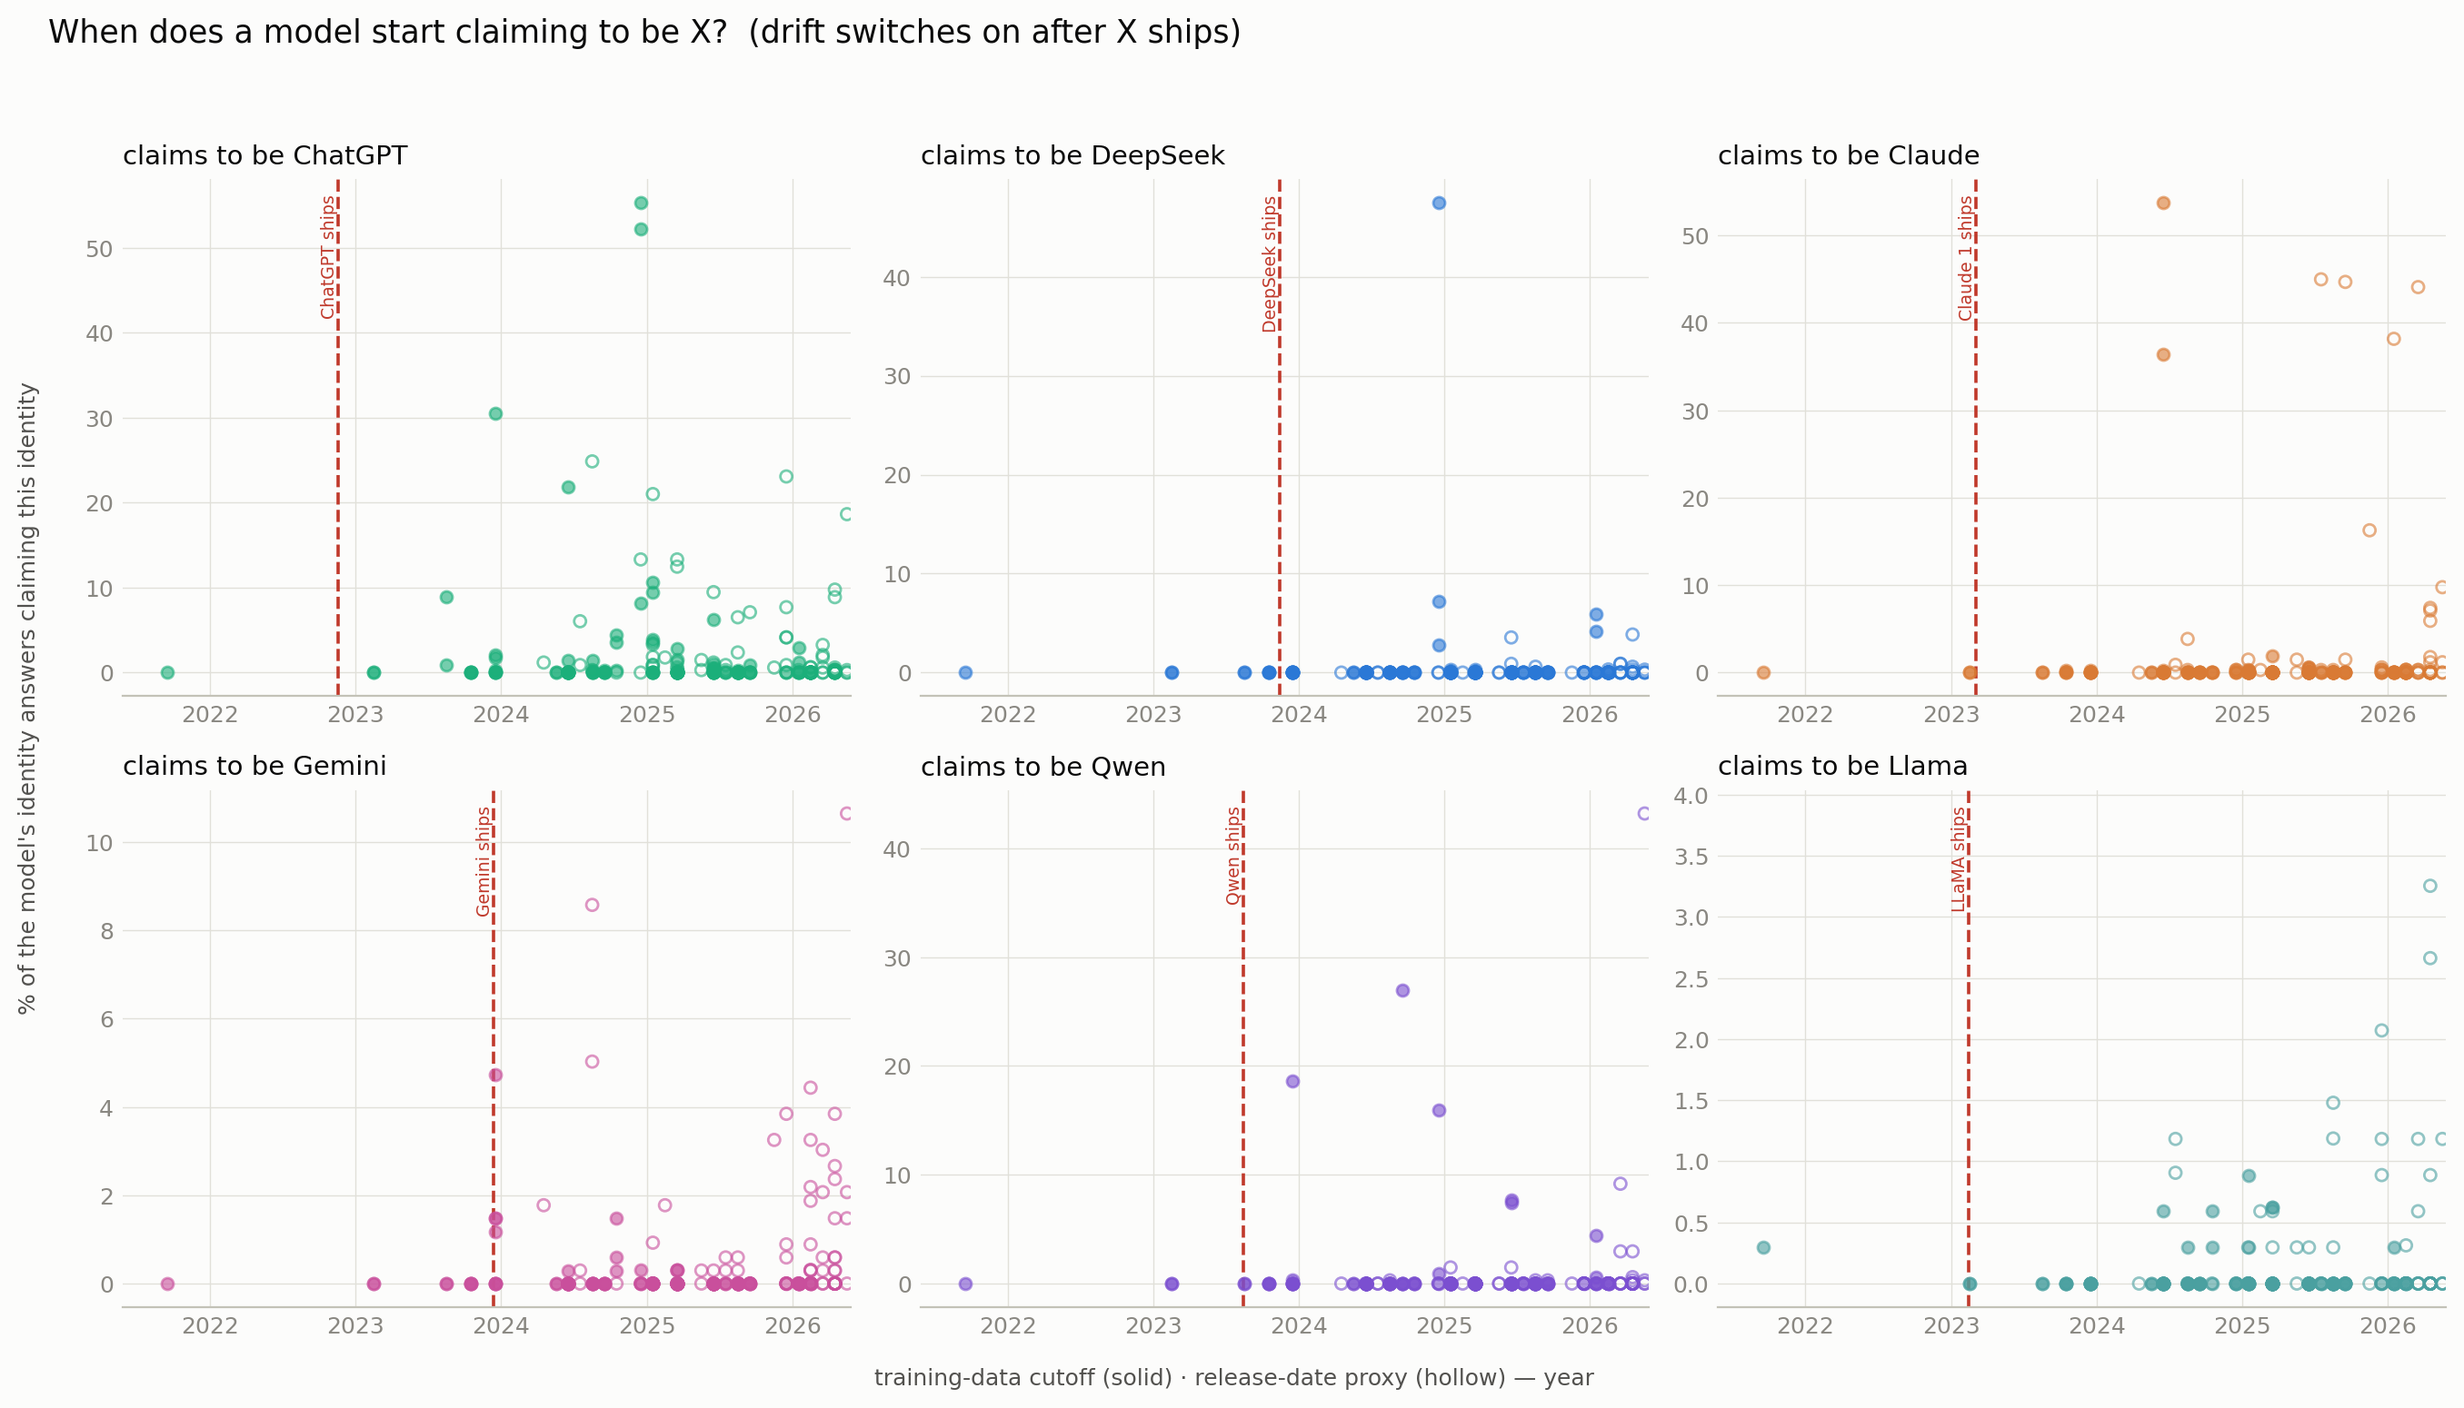
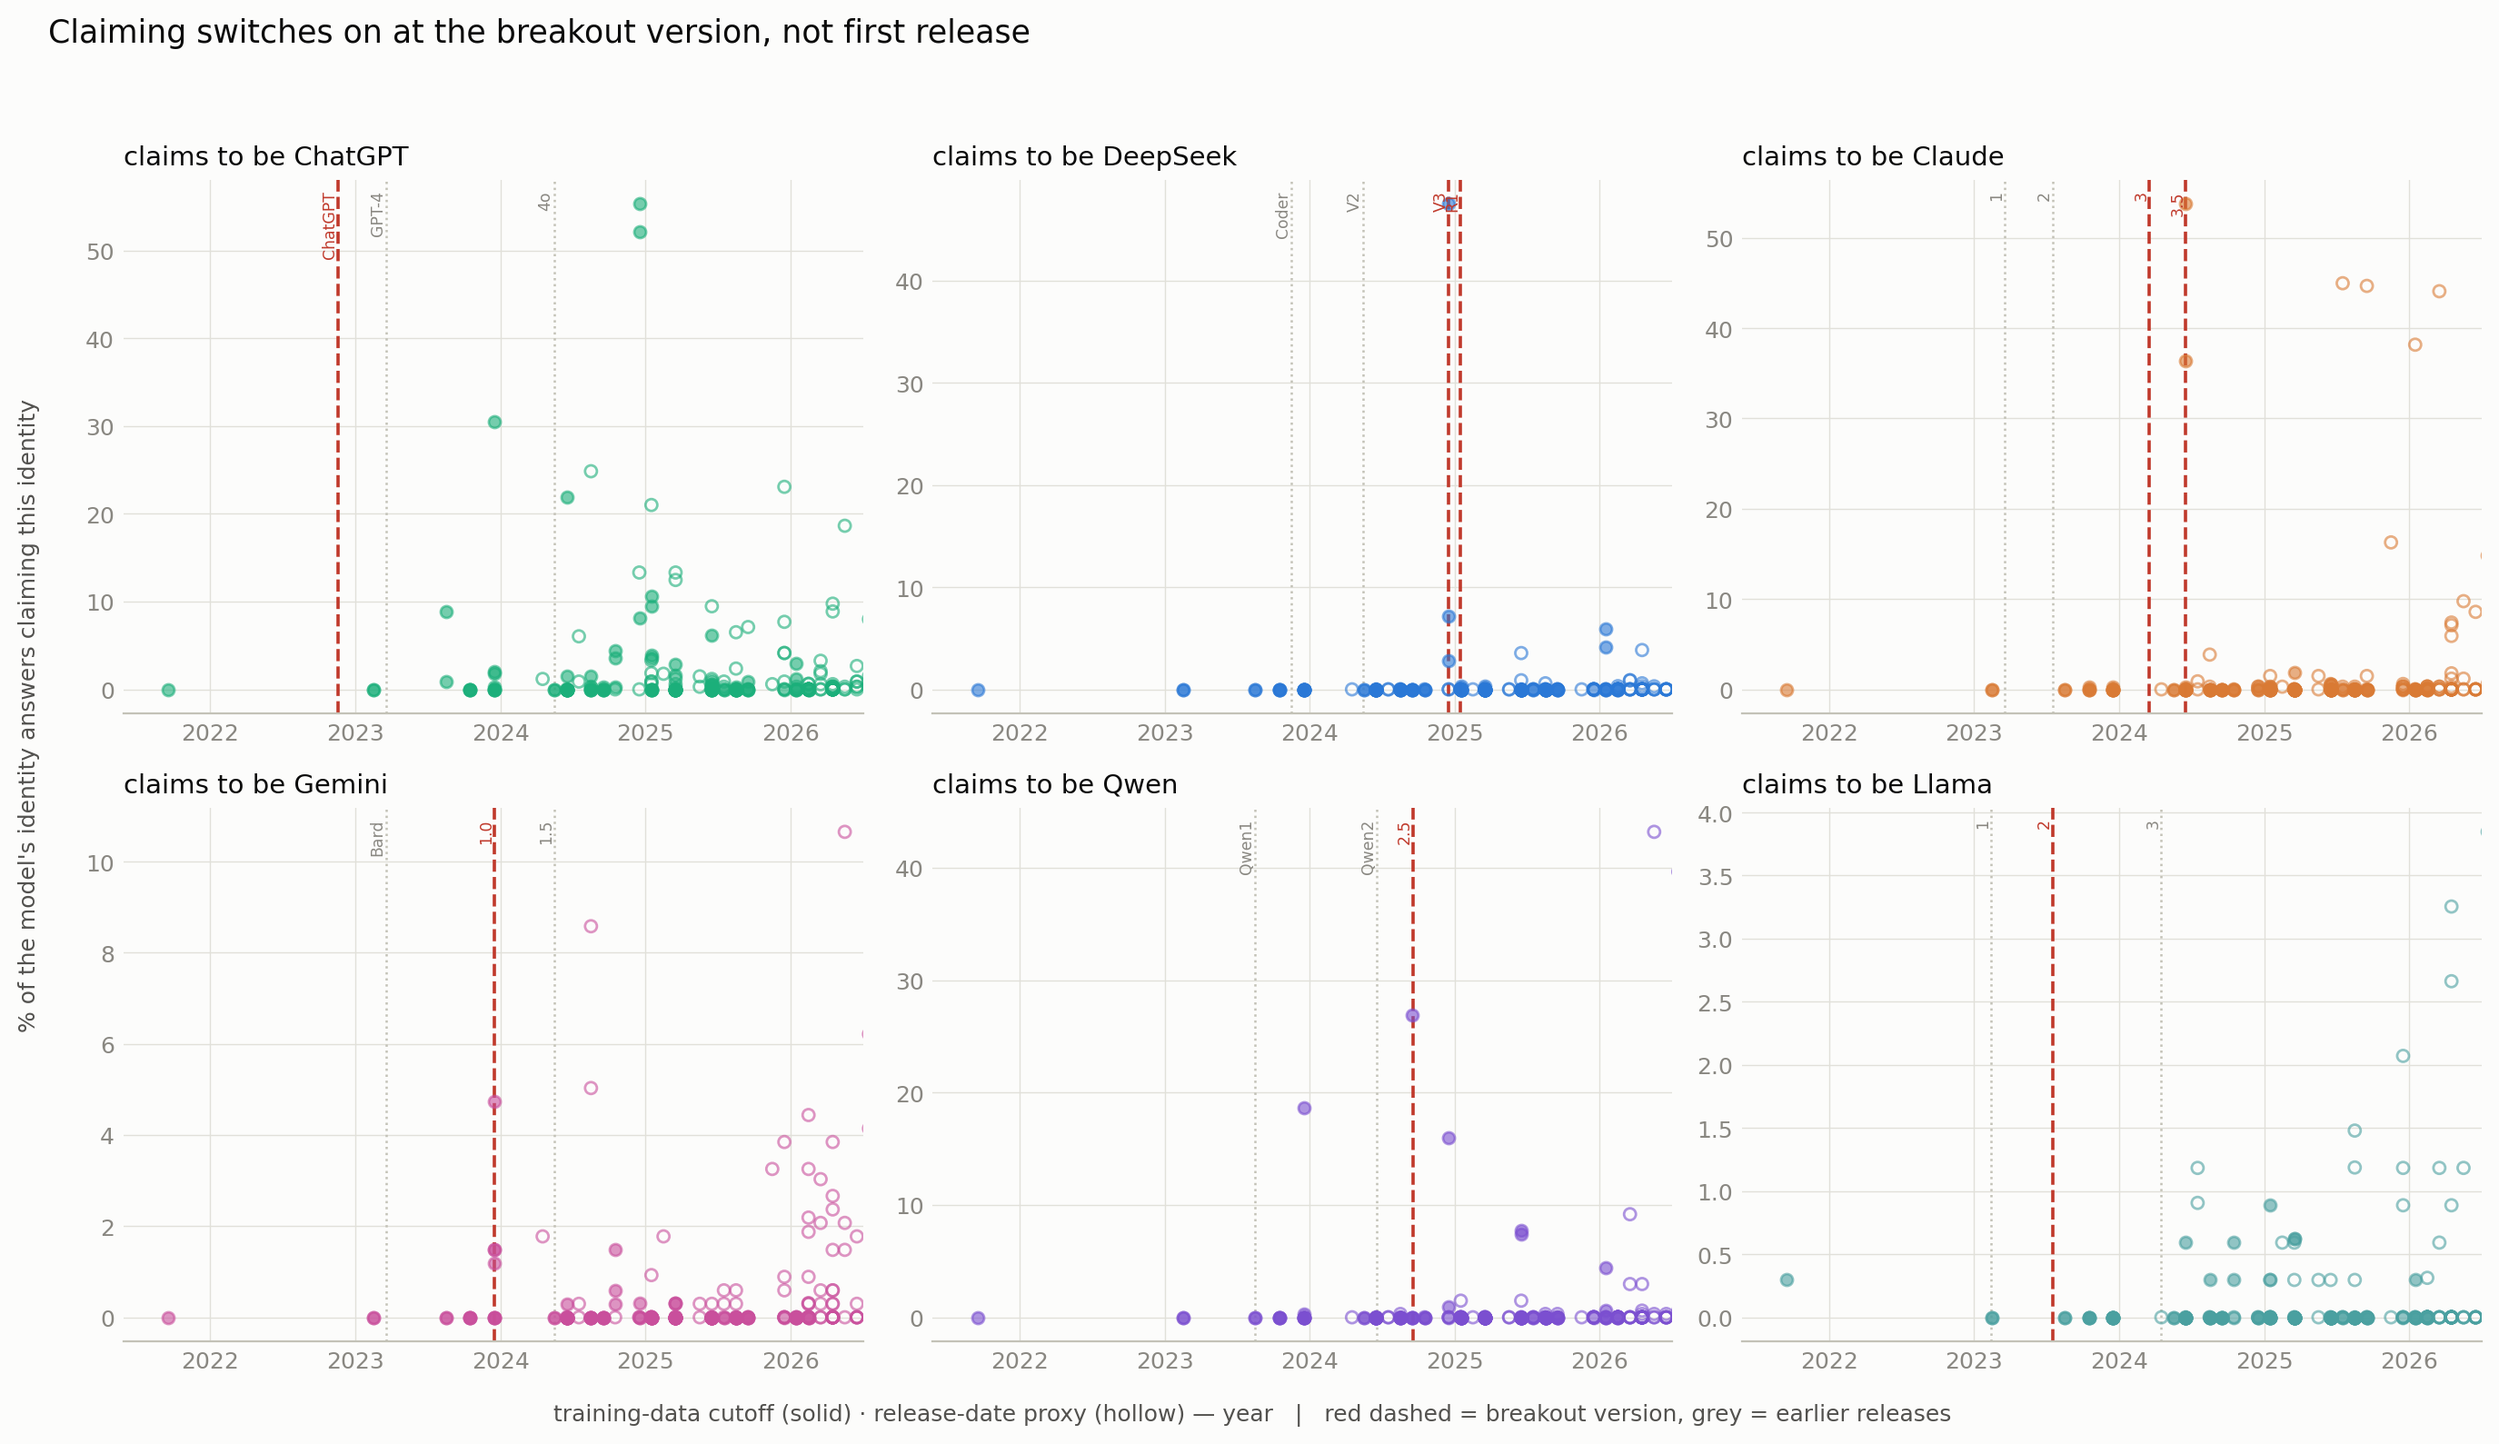
Mark version releases in cutoff grid — onset tracks breakout, not first release
Per your check: claiming switches on at the brand's breakout version, not its
obscure first release. DeepSeek's earliest claimer has a Dec-2024 cutoff = V3;
nothing claims DeepSeek in the ~13 months between DeepSeek-Coder (Nov 2023) and
V3 despite the name existing. Claude's substantial claimers (Qwen2.5-72B at 54%)
appear at 3/3.5 (mid-2024), not Claude 1 (2023). Grey dotted = earlier versions,
red dashed = breakout, in each panel.

Claude-Session: https://claude.ai/code/session_01Anj4JvuNgPGS3kunnJgPkZ

diff --git a/sweep/explain.py b/sweep/explain.py
@@ -209,19 +209,25 @@ def _year(s):
         return None
 
 
-# first public release of each brand — the earliest a model could absorb that
-# identity from its outputs in training data (the natural-experiment boundary)
-REL = {"chatgpt": 2022.88, "deepseek": 2023.87, "claude": 2023.17,
-       "gemini": 2023.95, "qwen": 2023.62, "llama": 2023.12}
-REL_LABEL = {"chatgpt": "ChatGPT", "deepseek": "DeepSeek", "claude": "Claude 1",
-             "gemini": "Gemini", "qwen": "Qwen", "llama": "LLaMA"}
+# major version releases per claimed brand (year). breakout=True marks the version
+# whose outputs actually flooded training data — where claiming it turns on — vs the
+# obscure first release that merely made the name exist.
+VERSIONS = {
+    "chatgpt": [(2022.88, "ChatGPT", True), (2023.21, "GPT-4", False), (2024.37, "4o", False)],
+    "deepseek": [(2023.87, "Coder", False), (2024.37, "V2", False), (2024.96, "V3", True), (2025.04, "R1", True)],
+    "claude": [(2023.21, "1", False), (2023.54, "2", False), (2024.21, "3", True), (2024.46, "3.5", True)],
+    "gemini": [(2023.21, "Bard", False), (2023.96, "1.0", True), (2024.37, "1.5", False)],
+    "qwen": [(2023.62, "Qwen1", False), (2024.46, "Qwen2", False), (2024.71, "2.5", True)],
+    "llama": [(2023.12, "1", False), (2023.54, "2", True), (2024.29, "3", False)],
+}
 
 
 def fig_cutoff(data):
-    """Per identity: does a model start claiming to BE X only after X first shipped?
-    x = training-data cutoff (solid) or, when a lab publishes none, release date as a
-    proxy (hollow). Vertical line = X's first public release. y = how much of the
-    model's identity answers claim X."""
+    """Per identity: does a model start claiming to BE X only after X's outputs
+    flooded training data? x = training-data cutoff (solid) or release-date proxy
+    (hollow). Grey ticks = version releases; red dashed = the breakout version.
+    y = how much of the model's identity answers claim X. The onset tracks the
+    breakout (DeepSeek V3, Claude 3.5), not the obscure first release."""
     cut = _load("model_cutoffs.json")
     if not cut:
         print("  (no model_cutoffs.json yet — skipping fig_cutoff)")
@@ -234,25 +240,27 @@ def fig_cutoff(data):
         if x is None or d["tot"] < MIN_TOT:
             continue
         rows.append((d, x, yc is not None))
-    ids = list(REL)
-    fig, axes = plt.subplots(2, 3, figsize=(13.6, 7.8))
-    for ax, ident in zip(axes.flat, ids):
+    fig, axes = plt.subplots(2, 3, figsize=(13.8, 8.0))
+    for ax, ident in zip(axes.flat, VERSIONS):
         col = IDCOLOR.get(ident, "#2a78d6")
         for d, x, doc in rows:
             y = 100 * d["claims"].get(ident, 0) / d["tot"]
             ax.scatter(x, y, s=22, facecolor=col if doc else "none",
                        edgecolor=col, alpha=0.6, lw=1, zorder=3)
-        ax.axvline(REL[ident], color="#c0392b", lw=1.3, ls="--", zorder=2)
-        ax.text(REL[ident], 0.97, f" {REL_LABEL[ident]} ships", fontsize=6.8, color="#c0392b",
-                rotation=90, va="top", ha="right", transform=ax.get_xaxis_transform())
+        for vx, vlab, breakout in VERSIONS[ident]:
+            ax.axvline(vx, color="#c0392b" if breakout else BASE,
+                       lw=1.3 if breakout else 0.9, ls="--" if breakout else ":", zorder=2)
+            ax.text(vx, 0.98, vlab, fontsize=6.2, color="#c0392b" if breakout else MUTED,
+                    rotation=90, va="top", ha="right", transform=ax.get_xaxis_transform())
         ax.set_title(f"claims to be {brand(ident)}", fontsize=10.5, color=INK, loc="left")
-        ax.set_xlim(2021.4, 2026.4)
+        ax.set_xlim(2021.4, 2026.5)
         style(ax); ax.grid(color=GRID, lw=0.5, zorder=0)
-    fig.text(0.5, 0.015, "training-data cutoff (solid) · release-date proxy (hollow) — year",
+    fig.text(0.5, 0.015, "training-data cutoff (solid) · release-date proxy (hollow) — year   "
+             "|   red dashed = breakout version, grey = earlier releases",
              ha="center", fontsize=9, color=INK2)
     fig.text(0.008, 0.5, "% of the model's identity answers claiming this identity",
              va="center", rotation=90, fontsize=9, color=INK2)
-    fig.suptitle("When does a model start claiming to be X?  (drift switches on after X ships)",
+    fig.suptitle("Claiming switches on at the breakout version, not first release",
                  fontsize=12.5, color=INK, x=0.02, ha="left")
     fig.tight_layout(rect=[0.025, 0.03, 1, 0.95])
     save(fig, "fig_cutoff.png")
